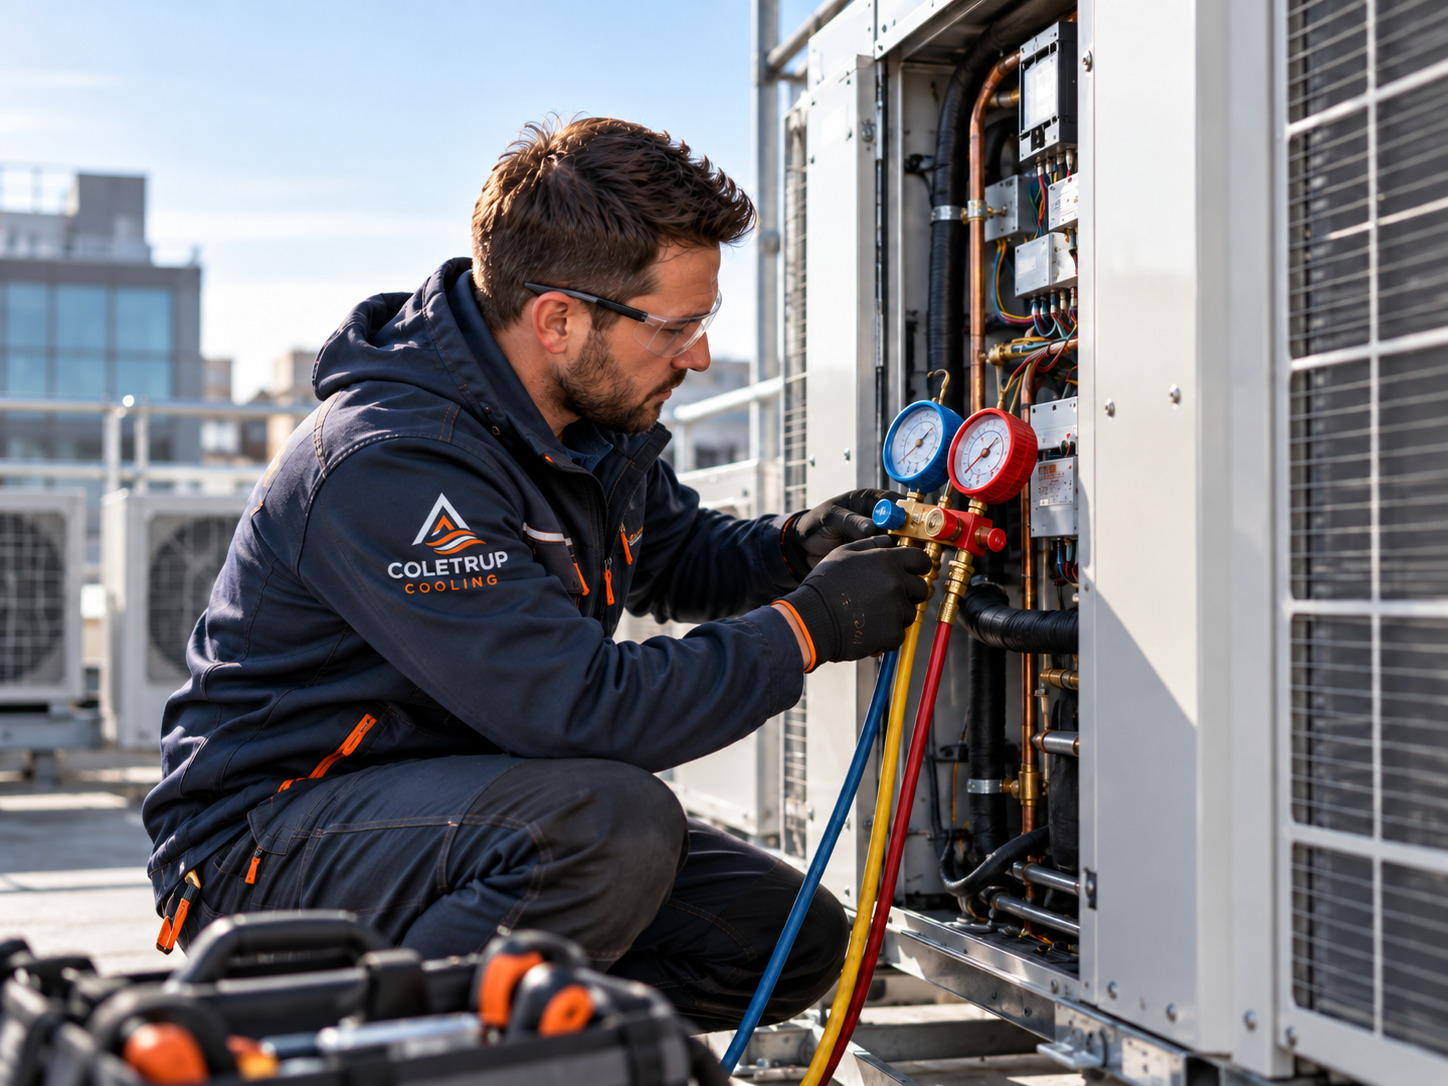
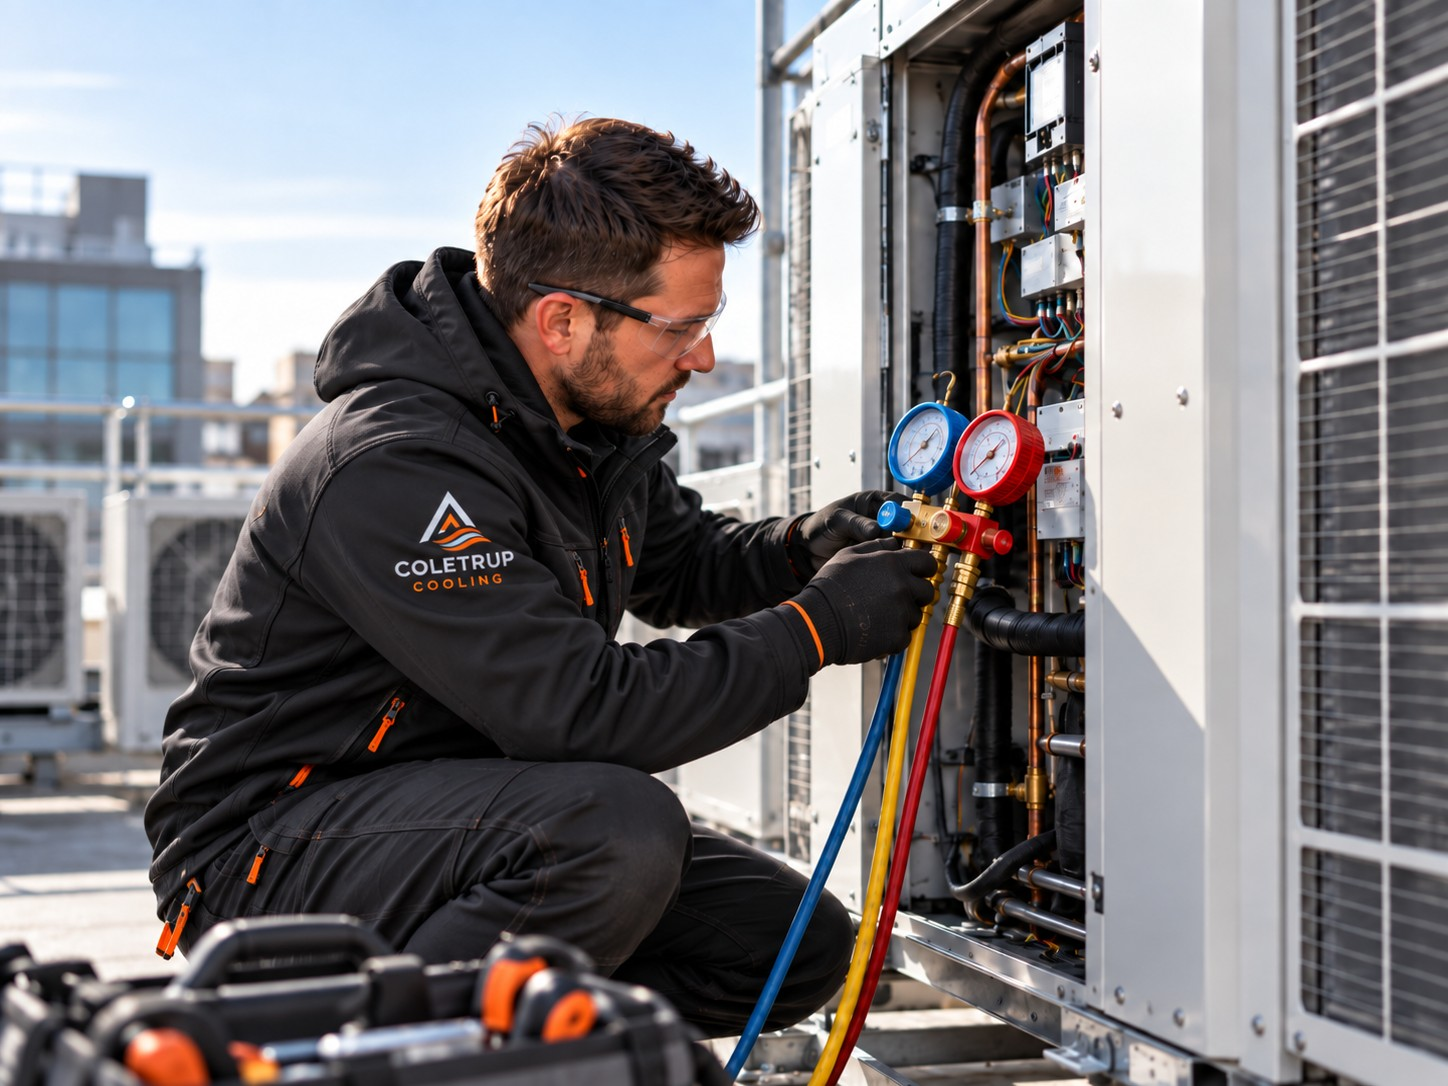
Charcoal uniform photos, no repeats

diff --git a/src/lib/images.ts b/src/lib/images.ts
@@ -31,6 +31,11 @@ import commercialRestaurantCheck from '../assets/images/commercial-air-condition
 import commercialOfficeFilter from '../assets/images/engineer-cleaning-ceiling-cassette-air-conditioning-filter-office.jpg';
 import commercialRooftopGauges from '../assets/images/commercial-rooftop-air-conditioning-unit-repair-gauges.jpg';
 import commercialCassetteInstall from '../assets/images/engineer-installing-ceiling-cassette-air-conditioning-boardroom.jpg';
+import engineerHomeDark from '../assets/images/engineer-inspecting-wall-mounted-air-conditioning-unit.jpg';
+import engineerFilterCleanDark from '../assets/images/engineer-cleaning-wall-mounted-air-conditioning-filter.jpg';
+import engineerInstallDiningDark from '../assets/images/engineer-fitting-wall-mounted-air-conditioning-kitchen-diner.jpg';
+import commercialRestaurantCheckDark from '../assets/images/engineer-inspecting-restaurant-ceiling-cassette-air-conditioning.jpg';
+import commercialCassetteInstallDark from '../assets/images/engineer-fitting-ceiling-cassette-air-conditioning-meeting-room.jpg';
 
 export type ImageKey =
   | 'livingRoom'
@@ -59,7 +64,12 @@ export type ImageKey =
   | 'commercialRestaurantCheck'
   | 'commercialOfficeFilter'
   | 'commercialRooftopGauges'
-  | 'commercialCassetteInstall';
+  | 'commercialCassetteInstall'
+  | 'engineerHomeDark'
+  | 'engineerFilterCleanDark'
+  | 'engineerInstallDiningDark'
+  | 'commercialRestaurantCheckDark'
+  | 'commercialCassetteInstallDark';
 
 export const images: Record<ImageKey, { src: ImageMetadata; alt: string; title?: string }> = {
   // ---- Residential
@@ -107,6 +117,32 @@ export const images: Record<ImageKey, { src: ImageMetadata; alt: string; title?:
     src: commercialCassetteInstall,
     alt: 'Coletrup Cooling engineer fitting a ceiling cassette air conditioning unit in a boardroom',
     title: 'Commercial air conditioning installation',
+  },
+  // ---- Charcoal-uniform set (supplied 30 Sep) — used so no photo repeats across the site
+  engineerHomeDark: {
+    src: engineerHomeDark,
+    alt: 'Coletrup Cooling engineer inspecting the filters of a wall-mounted air conditioning unit in a bright room',
+    title: 'Air conditioning inspection and repair',
+  },
+  engineerFilterCleanDark: {
+    src: engineerFilterCleanDark,
+    alt: 'Coletrup Cooling engineer lifting the filter out of a wall-mounted air conditioning unit in a living room',
+    title: 'Air conditioning filter cleaning',
+  },
+  engineerInstallDiningDark: {
+    src: engineerInstallDiningDark,
+    alt: 'Coletrup Cooling engineer fitting a wall-mounted air conditioning unit in a kitchen diner',
+    title: 'Wall-mounted air conditioning installation',
+  },
+  commercialRestaurantCheckDark: {
+    src: commercialRestaurantCheckDark,
+    alt: 'Coletrup Cooling engineer recording a ceiling cassette air conditioning check on a tablet in a restaurant',
+    title: 'Restaurant air conditioning maintenance',
+  },
+  commercialCassetteInstallDark: {
+    src: commercialCassetteInstallDark,
+    alt: 'Coletrup Cooling engineer securing a ceiling cassette air conditioning unit in a meeting room',
+    title: 'Ceiling cassette air conditioning installation',
   },
   openPlanLiving: {
     src: openPlanLiving,
